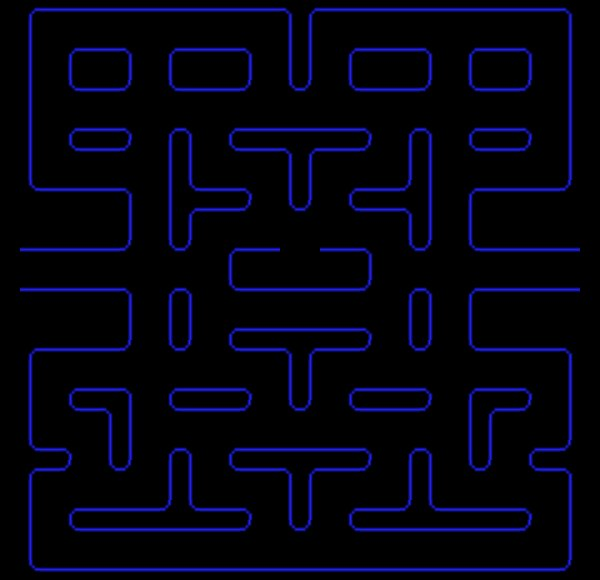
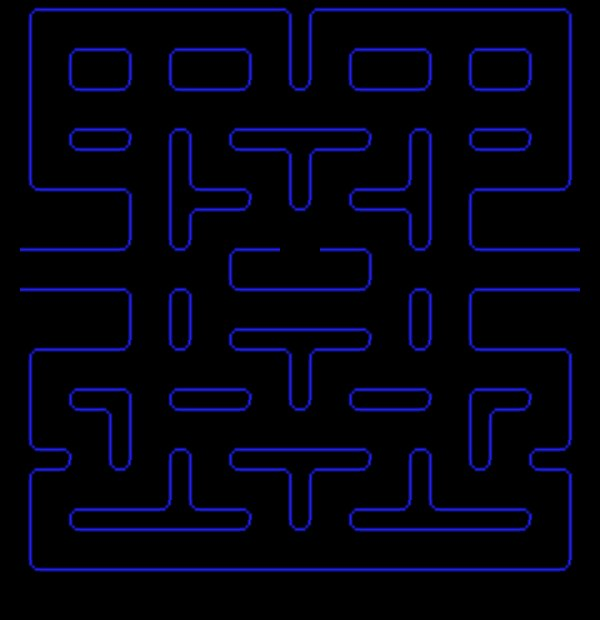
lives display

diff --git a/painter/painter.py b/painter/painter.py
@@ -1,6 +1,7 @@
 import pygame
 from background.background import paint_whole_background, repaint_fragment_of_background
 from events.eventobserver import EventObserver
+from background.dynamic_images import DynamicImages
 
 from media.dirtyrect import *
 import background
@@ -13,10 +14,11 @@ BGCOLOR = (0, 0, 0)
 class Painter(EventObserver):
     def __init__(self, window_surface):
         super().__init__()
-        self.react_cases = {"GAME_OVER": self.paint_game_over, "REPAINT" : self.repaint_background_with_dots}
+        self.react_cases = {"GAME_OVER": self.paint_game_over, "REPAINT": self.repaint_background_with_dots}
         self.window_surface = window_surface
         self.window_surface.fill(BGCOLOR)
         self.save_screenshot(window_surface)
+        self.di = DynamicImages(window_surface)
         #paint_whole_background(window_surface)
 
         pygame.display.update()
@@ -36,6 +38,7 @@ class Painter(EventObserver):
 
     def repaint_background_with_dots(self):
         paint_whole_background(self.window_surface, True, RECT_MATRIX.map_array)
+        self.di.paint()
         pygame.display.update()
 
     def paint_game_over(self):
@@ -44,7 +47,6 @@ class Painter(EventObserver):
             for key, animation in object.animations.items():
                 animation.stop()
         pygame.display.update()
-
 
     def save_screenshot(self, window_surface):
         paint_whole_background(window_surface, False)

diff --git a/media/sprites.py b/media/sprites.py
@@ -26,7 +26,7 @@ PacManDeathAnim = media.pyganim.PygAnimation([('resources/pacman/death_1.png', 0
                                               ('resources/pacman/death_8.png', 0.1),
                                               ('resources/pacman/death_9.png', 0.1),
                                               ('resources/pacman/death_10.png', 0.1),
-                                              ('resources/pacman/death_11.png', 0.4)])
+                                              ('resources/pacman/death_11.png', 0.1)])
 
 
 PacManAnimTop = PacManAnimDown.getCopy()

diff --git a/background/dynamic_images.py b/background/dynamic_images.py
@@ -1,0 +1,13 @@
+import pygame
+
+class DynamicImages:
+    lives = 'resources/live.png'
+
+    def __init__(self, window_surface):
+        self.window_surface = window_surface
+        pygame.Surface.blit(self.window_surface, pygame.image.load(self.lives), (100, 580))
+        pygame.Surface.blit(self.window_surface, pygame.image.load(self.lives), (70, 580))
+        pygame.Surface.blit(self.window_surface, pygame.image.load(self.lives), (40, 580))
+
+    def paint(self):
+       pass

diff --git a/events/eventhandler.py b/events/eventhandler.py
@@ -2,7 +2,7 @@
 
 from objects.Container import get_objects
 #dictionary with all possible events as keys and length in frames
-GAME_EVENTS = {"DEATH": 60, "GAME_OVER": 200, "RESPAWN" : 1, "REPAINT" : 1, "EXIT" : 1}
+GAME_EVENTS = {"DEATH": 60, "GAME_OVER": 200, "RESPAWN": 1, "REPAINT": 1, "EXIT": 1}
 #acvtie events
 EVENTS = []
 

diff --git a/Main.py b/Main.py
@@ -4,7 +4,7 @@ from game import Game
 
 user32 = ctypes.windll.user32
 WIDTH = 600
-HEIGHT = 580
+HEIGHT = 620
 
 pygame.display.set_caption('Pac Man!')
 window_surface = pygame.display.set_mode((WIDTH, HEIGHT), 0, 32)

diff --git a/background/background.py b/background/background.py
@@ -1,5 +1,4 @@
 """logic and graphics required to handle background paining"""
-
 import pygame
 from media.constans import ACTUAL_SCREENSCHOT, ACTUAL_DOT_SCREENSCHOT, ACTUAL_LVL
 
